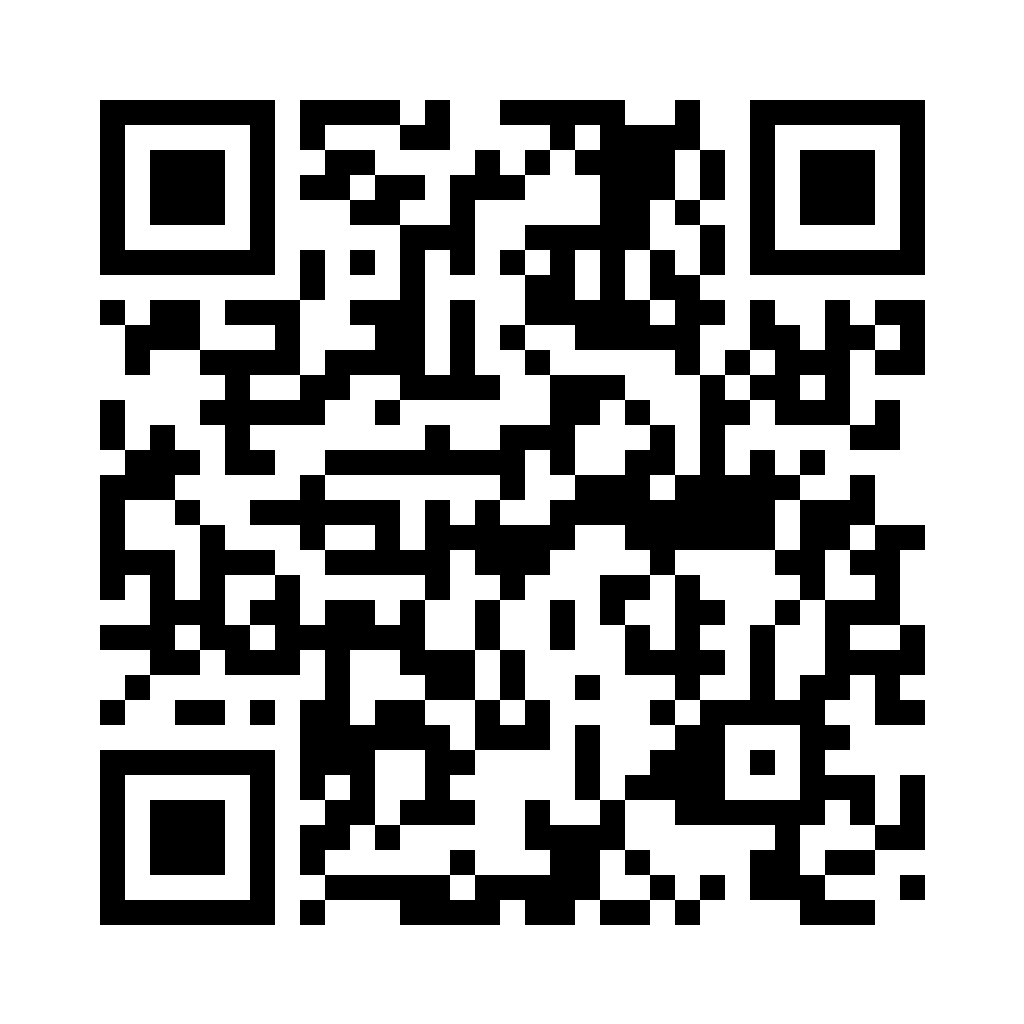
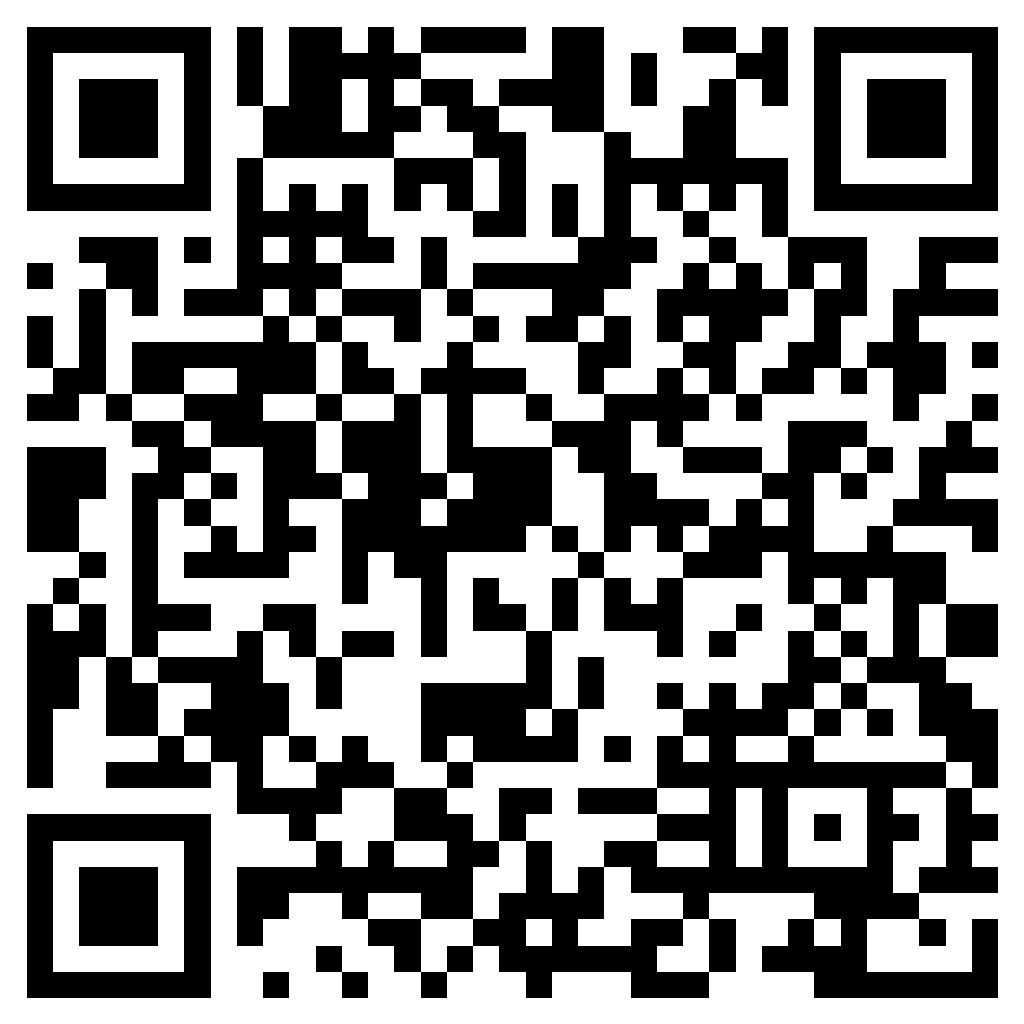
Update Bassi QR code to point to correct URL

diff --git a/scripts/generate_bassi_qr.js b/scripts/generate_bassi_qr.js
@@ -1,0 +1,36 @@
+const QRCode = require('qrcode');
+const fs = require('fs');
+const path = require('path');
+
+async function generateQR() {
+    const url = 'https://www.chittorgarh-tourism.in/bassi';
+    const outputPath = path.join(__dirname, '../public/QR_codes/Bassi.png');
+
+    try {
+        // Ensure the directory exists
+        const dir = path.dirname(outputPath);
+        if (!fs.existsSync(dir)) {
+            fs.mkdirSync(dir, { recursive: true });
+        }
+
+        // Generate QR code with high quality
+        await QRCode.toFile(outputPath, url, {
+            errorCorrectionLevel: 'H',
+            type: 'png',
+            width: 1024,
+            margin: 1,
+            color: {
+                dark: '#000000',
+                light: '#ffffff'
+            }
+        });
+
+        console.log(`QR Code generated successfully at: ${outputPath}`);
+        console.log(`URL: ${url}`);
+    } catch (err) {
+        console.error('Error generating QR code:', err);
+        process.exit(1);
+    }
+}
+
+generateQR();
